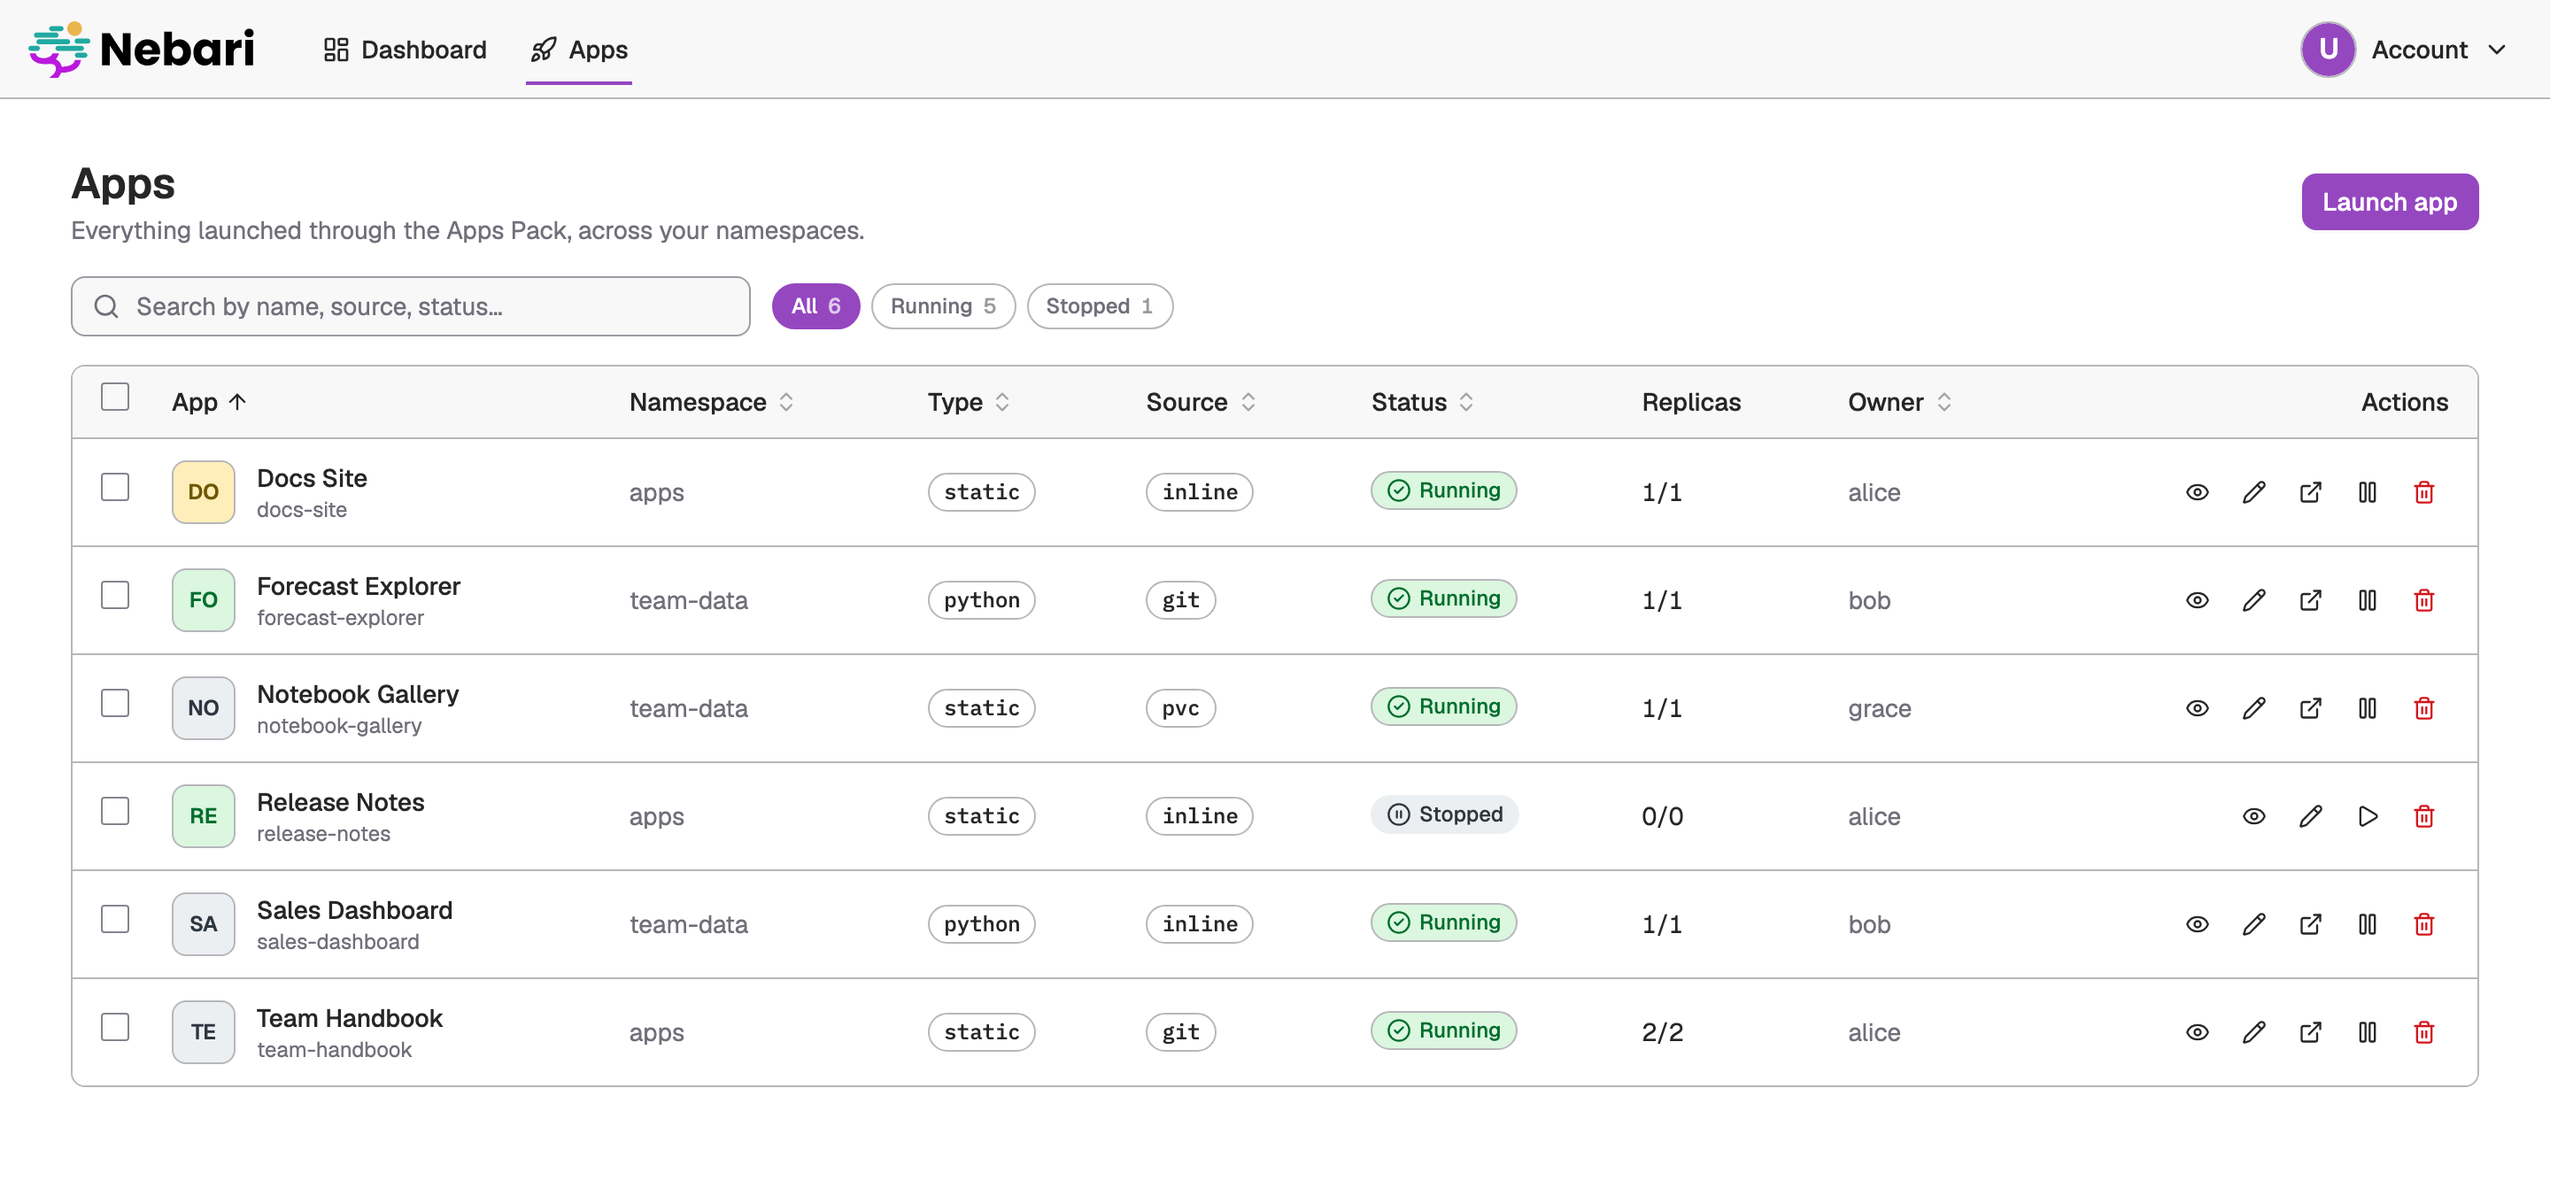
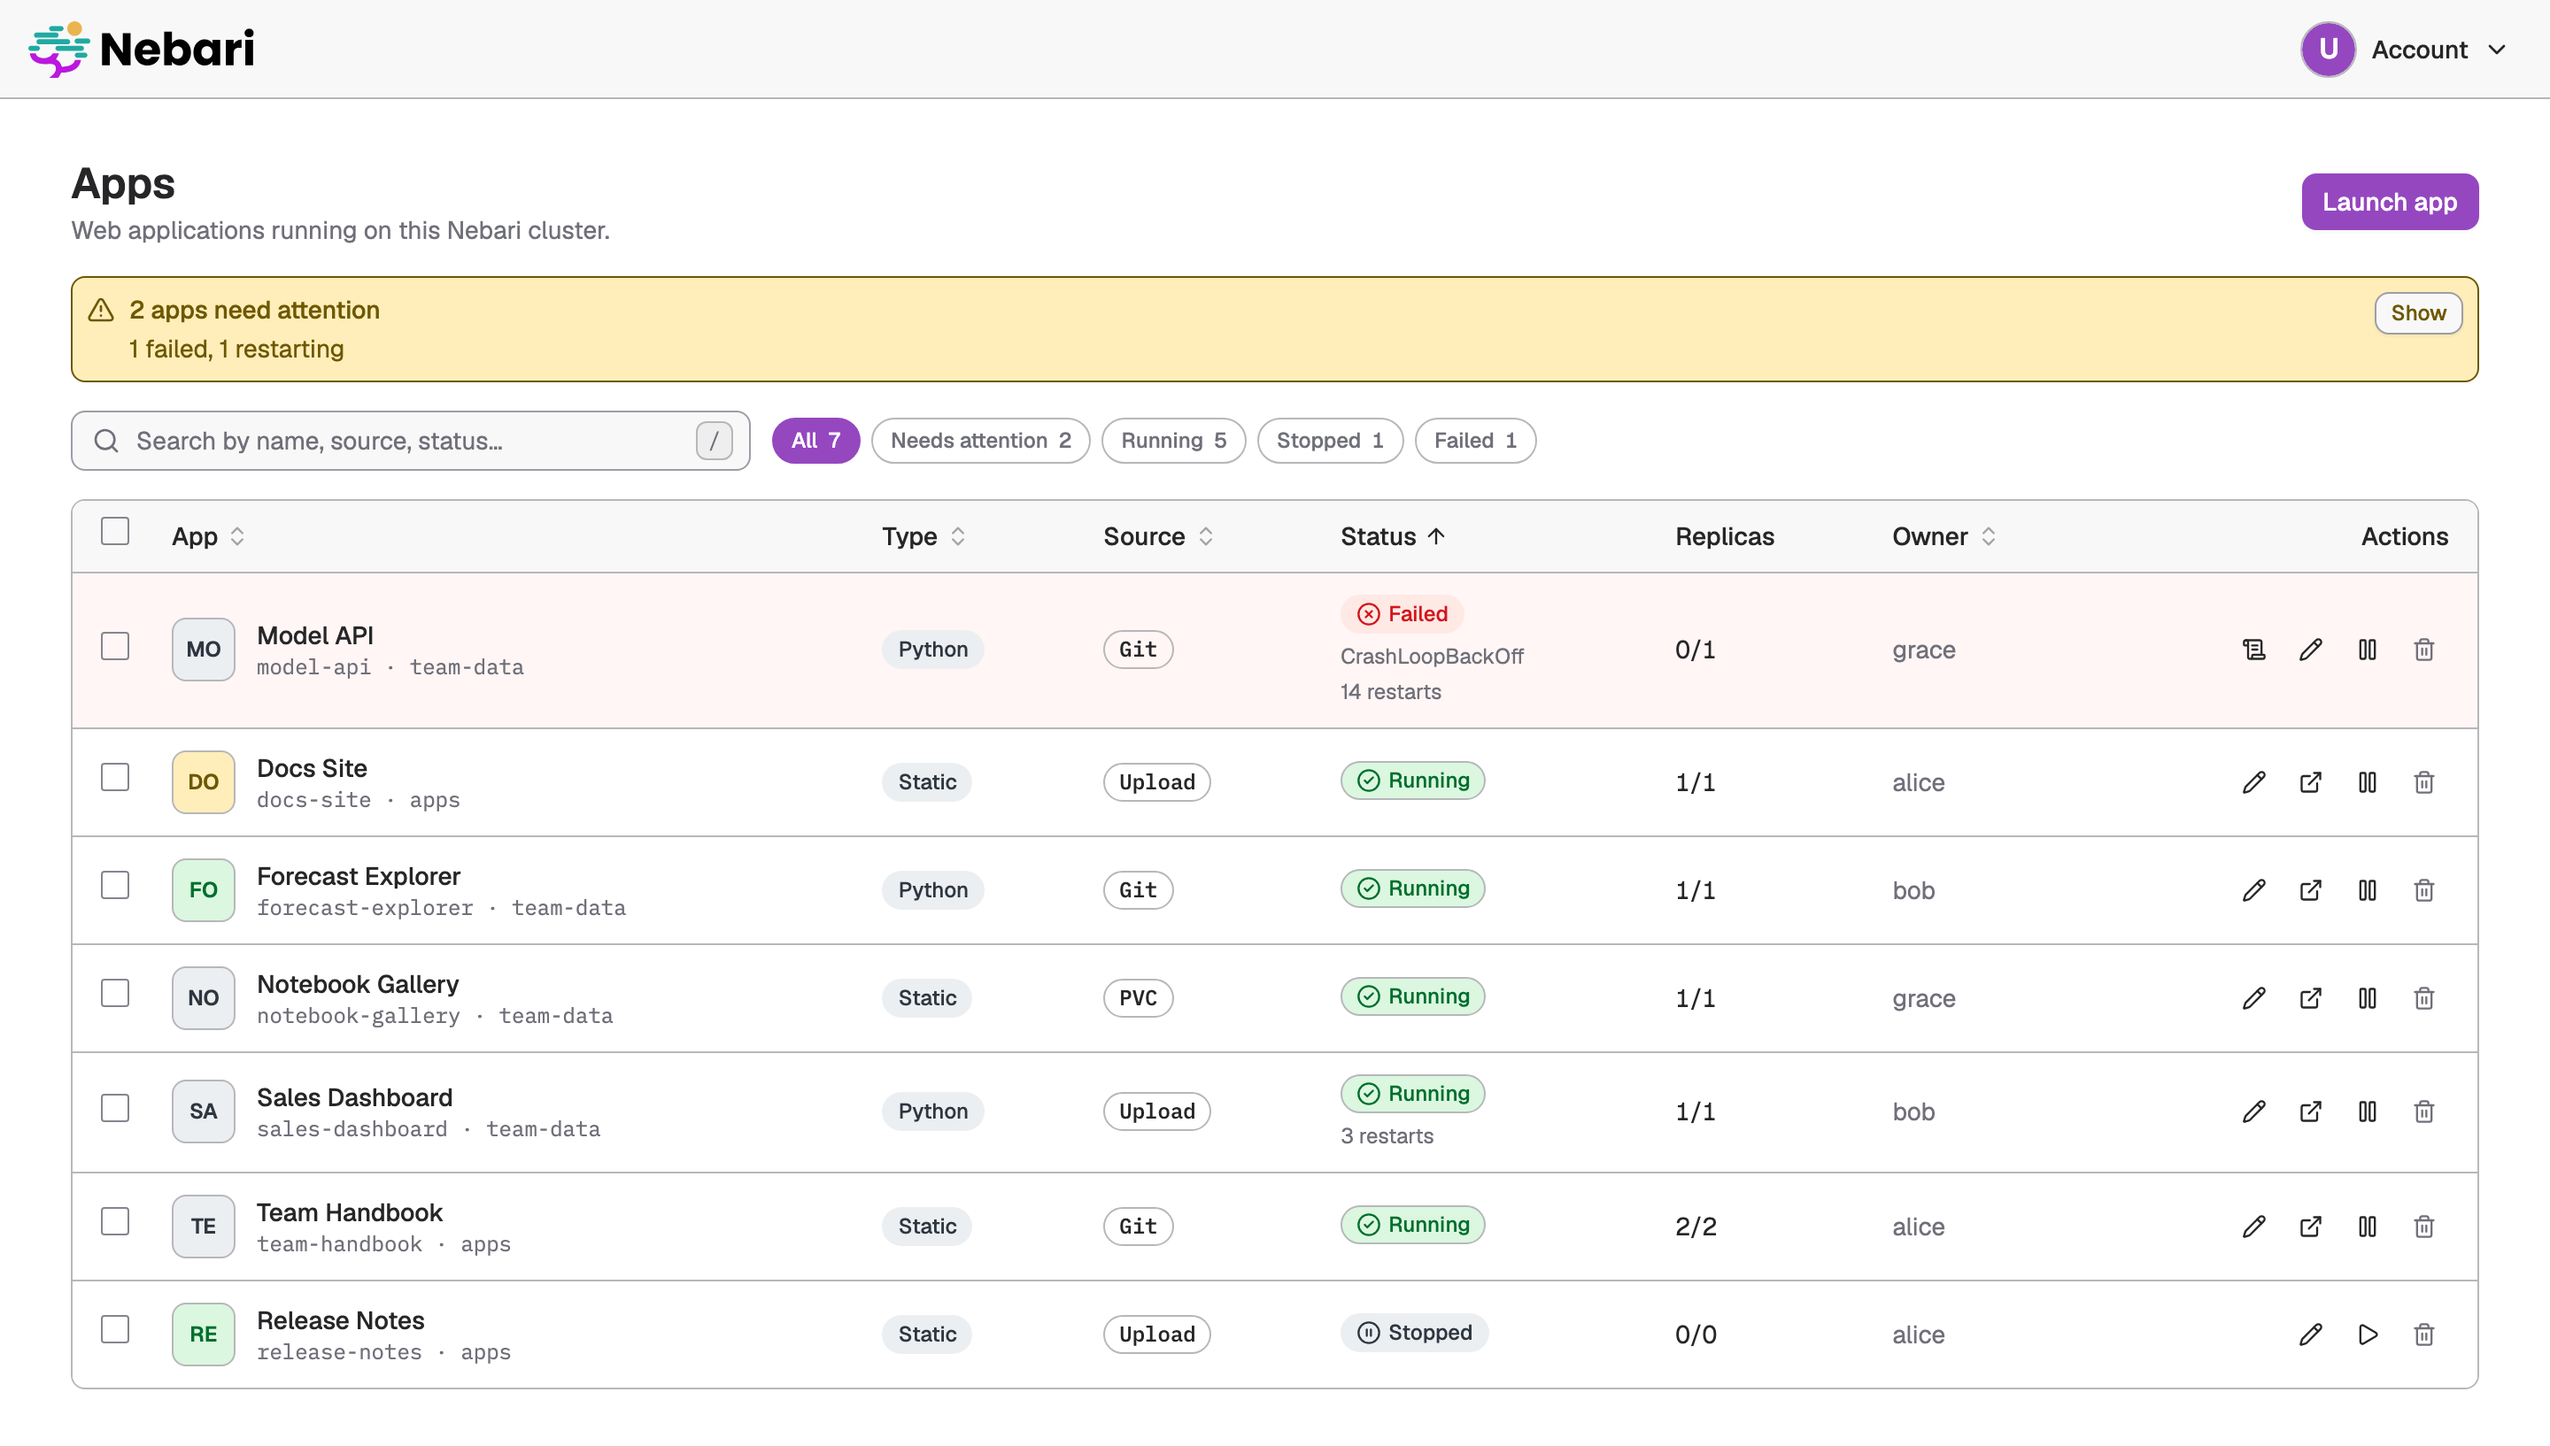
feat(ui): drop the one-item top nav and refresh the Apps screenshot (#137)
With the dashboard gone the header nav held only Apps, which the logo
already reaches. The header is now the logo and the account menu.

Claude-Session: https://claude.ai/code/session_016pvMUQJoLkBDk6B94TTm45

diff --git a/ui/src/components/header.tsx b/ui/src/components/header.tsx
@@ -1,7 +1,6 @@
 import { Menu as MenuPrimitive } from "@base-ui/react/menu";
-import { ChevronDown, LogOut, Monitor, Moon, Rocket, Sun } from "lucide-react";
+import { ChevronDown, LogOut, Monitor, Moon, Sun } from "lucide-react";
 import type { ReactNode } from "react";
-import { Link, useLocation } from "react-router-dom";
 import nebariLogo from "@/assets/nebari-logo.svg";
 import nebariLogoDark from "@/assets/nebari-logo_dark.svg";
 import { Avatar, AvatarFallback } from "@/components/avatar";
@@ -13,19 +12,11 @@ import {
   DropdownMenuSeparator,
   DropdownMenuTrigger,
 } from "@/components/ui/dropdown-menu";
-import {
-  MenuBarActions,
-  MenuBarBrand,
-  MenuBarNav,
-  NavigationMenu,
-  NavLink,
-} from "@/components/ui/navigation-menu";
+import { MenuBarActions, MenuBarBrand, NavigationMenu } from "@/components/ui/navigation-menu";
 import { isThemeMode, type ThemeMode } from "@/hooks/use-theme-preference";
 import { getConfig } from "@/lib/auth";
 import { getBranding } from "@/lib/branding";
 import { cn } from "@/lib/utils";
-
-const NAV = [{ to: "/apps", label: "Apps", icon: Rocket, end: false }];
 
 type User = {
   name?: string;
@@ -57,8 +48,6 @@ export function Header({
   onThemeChange,
   onSignOut,
 }: HeaderProps) {
-  const { pathname } = useLocation();
-
   // Branded logo from /config.json (ui.branding.logoUrl / logoUrlDark), falling
   // back to the bundled Nebari logos. Dark mode prefers the dark override, then
   // the light one, then the built-in dark logo - mirroring nebari-landing.
@@ -76,23 +65,6 @@ export function Header({
           <img src={isDarkMode ? nebariLogoDark : nebariLogo} alt="Nebari" className="h-8 w-auto" />
         )}
       </MenuBarBrand>
-
-      <MenuBarNav className="ml-1 sm:ml-4">
-        {NAV.map(({ to, label, icon: Icon, end }) => (
-          <NavLink
-            key={to}
-            active={end ? pathname === to : pathname === to || pathname.startsWith(`${to}/`)}
-            icon={<Icon />}
-            title={label}
-            // Below md the label stays in the DOM (the link's accessible name)
-            // but only the icon shows, so the nav fits beside the account menu.
-            className="max-md:[&>span]:sr-only"
-            render={<Link to={to} />}
-          >
-            {label}
-          </NavLink>
-        ))}
-      </MenuBarNav>
 
       <MenuBarActions className="gap-2">
         <DropdownMenu modal={false}>

diff --git a/ui/e2e/responsive.spec.ts b/ui/e2e/responsive.spec.ts
@@ -56,15 +56,8 @@ for (const { path, heading, ready } of PAGES) {
       innerWidth,
     );
 
-    const links = await header.getByRole("navigation").getByRole("link").all();
-    expect(links.length).toBeGreaterThan(0);
-    const seen: Box[] = [];
-    for (const link of links) {
-      const box = await link.boundingBox();
-      if (!box) throw new Error("a nav link is not rendered");
-      expect(overlaps(box, account), "a nav link overlaps the account menu").toBe(false);
-      for (const other of seen) expect(overlaps(box, other), "nav links overlap").toBe(false);
-      seen.push(box);
-    }
+    const logo = await header.getByRole("link", { name: /go to homepage/i }).boundingBox();
+    if (!logo) throw new Error("the logo is not rendered");
+    expect(overlaps(logo, account), "the logo overlaps the account menu").toBe(false);
   });
 }

diff --git a/ui/tests/components/header.test.tsx b/ui/tests/components/header.test.tsx
@@ -16,10 +16,10 @@ describe("Header", () => {
     expect(screen.getByRole("link", { name: /go to homepage/i })).toHaveAttribute("href", "/");
   });
 
-  it("links to Apps, the home page, without a Dashboard or Metrics page", () => {
+  it("has no page links: the logo is the only way home", () => {
     renderWithRouter(<Header />);
 
-    expect(screen.getByRole("link", { name: /^apps$/i })).toHaveAttribute("href", "/apps");
+    expect(screen.getAllByRole("link")).toHaveLength(1);
     expect(screen.queryByRole("link", { name: /dashboard/i })).not.toBeInTheDocument();
     expect(screen.queryByRole("link", { name: /metrics/i })).not.toBeInTheDocument();
   });

diff --git a/ui/tests/pages/a11y.test.tsx b/ui/tests/pages/a11y.test.tsx
@@ -191,7 +191,7 @@ it("moves focus to the new page's heading after navigating", async () => {
     </>,
   );
   await screen.findByRole("heading", { level: 1, name: "Launch an app" });
-  await user.click(screen.getByRole("link", { name: /^apps$/i }));
+  await user.click(screen.getByRole("button", { name: "Cancel" }));
   const heading = await screen.findByRole("heading", { level: 1, name: "Apps" });
   expect(heading).toHaveFocus();
 });

diff --git a/README.md b/README.md
@@ -7,7 +7,7 @@ It is for platform teams who want their users to publish apps without learning K
 The web UI, the REST API, the MCP server for coding agents, and `kubectl`/GitOps all write
 the same `App` custom resource, and one operator turns it into workloads, routing and SSO.
 
-![The Apps page of the Nebari Apps Pack: a table of launched apps with their namespace, type, source, status, replicas and owner](docs/src/assets/screenshots/apps-list.png)
+![The Apps page of the Nebari Apps Pack: a banner saying two apps need attention above status filter chips and a table of launched apps with their type, source, status, replicas and owner, the failed app first](docs/src/assets/screenshots/apps-list.png)
 
 > **Status: alpha** ([`pack-metadata.yaml`](pack-metadata.yaml)). APIs, chart values and the
 > `App` CRD may still change between releases.

diff --git a/docs/src/content/docs/index.md b/docs/src/content/docs/index.md
@@ -13,7 +13,7 @@ Everything converges on one declarative resource: the **`App`** custom resource
 Service, and a `NebariApp` — and the [nebari-operator](https://github.com/nebari-dev/nebari-operator)
 turns that into routing, TLS, authentication, and (when the app opts in) a landing-page tile.
 
-![The Apps page: a table of launched apps with their namespace, type, source, status, replicas and owner](../../assets/screenshots/apps-list.png)
+![The Apps page: a banner saying two apps need attention above status filter chips and a table of launched apps with their type, source, status, replicas and owner, the failed app first](../../assets/screenshots/apps-list.png)
 
 Each app gets its own URL under the cluster's apps domain:
 
